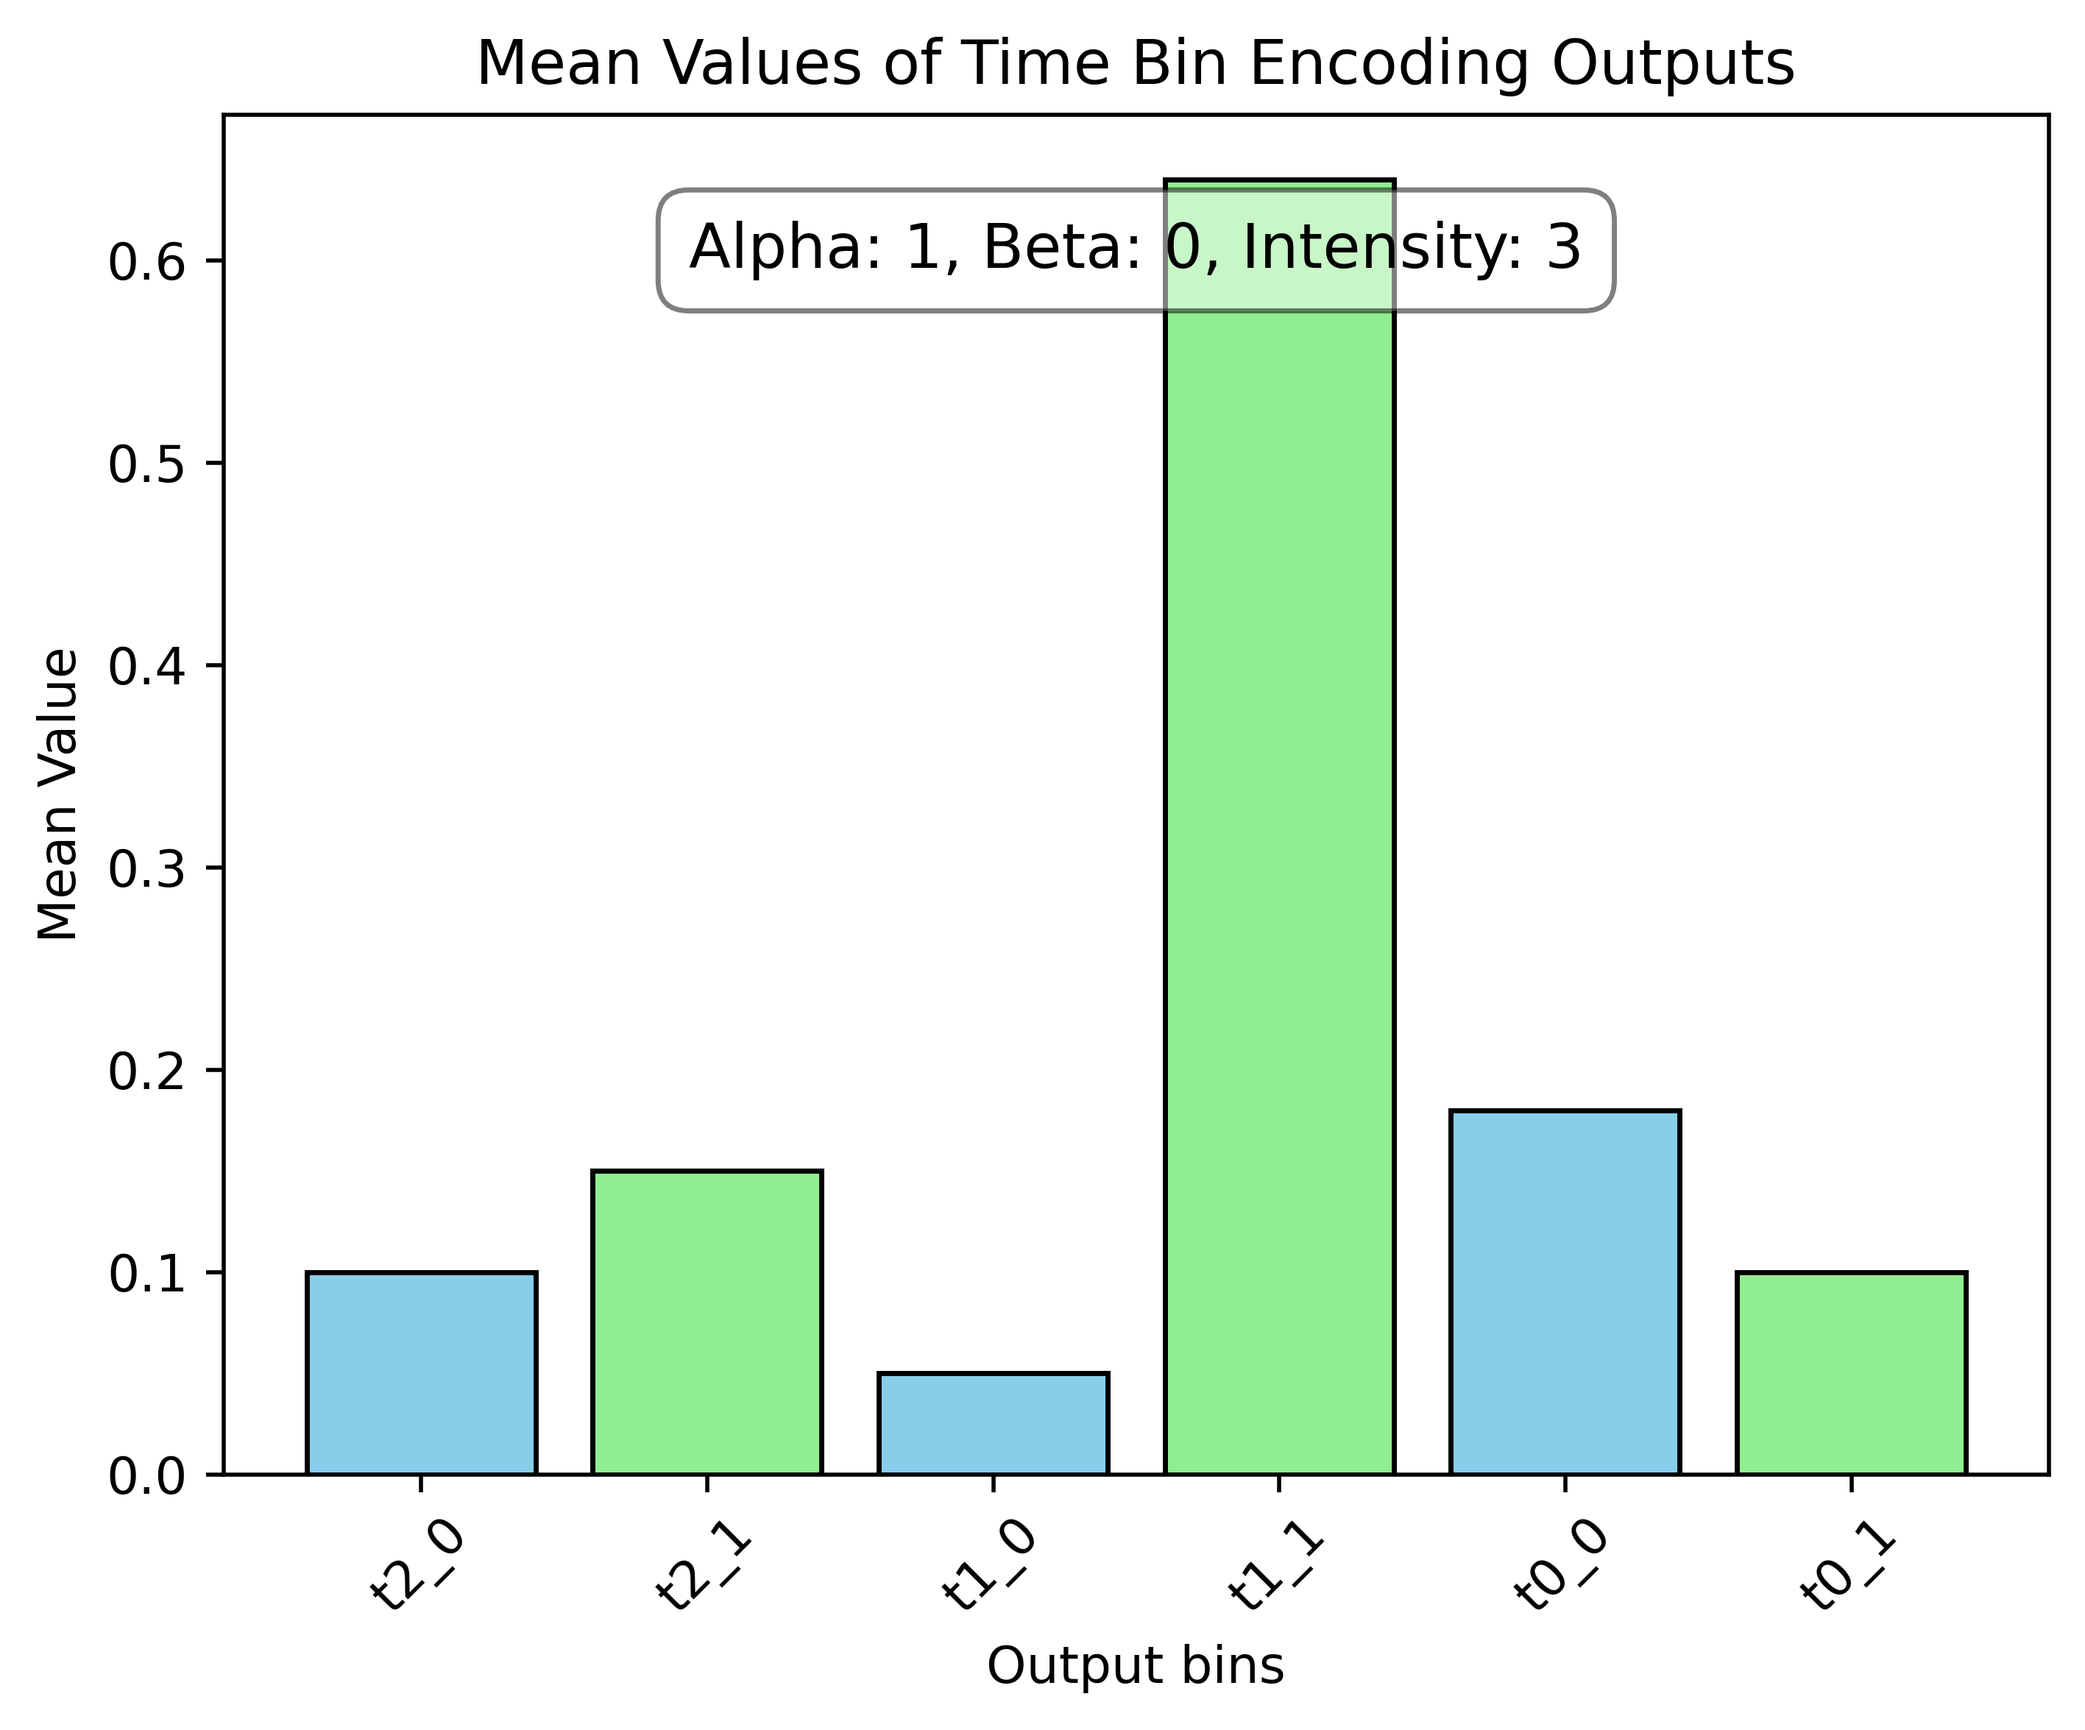
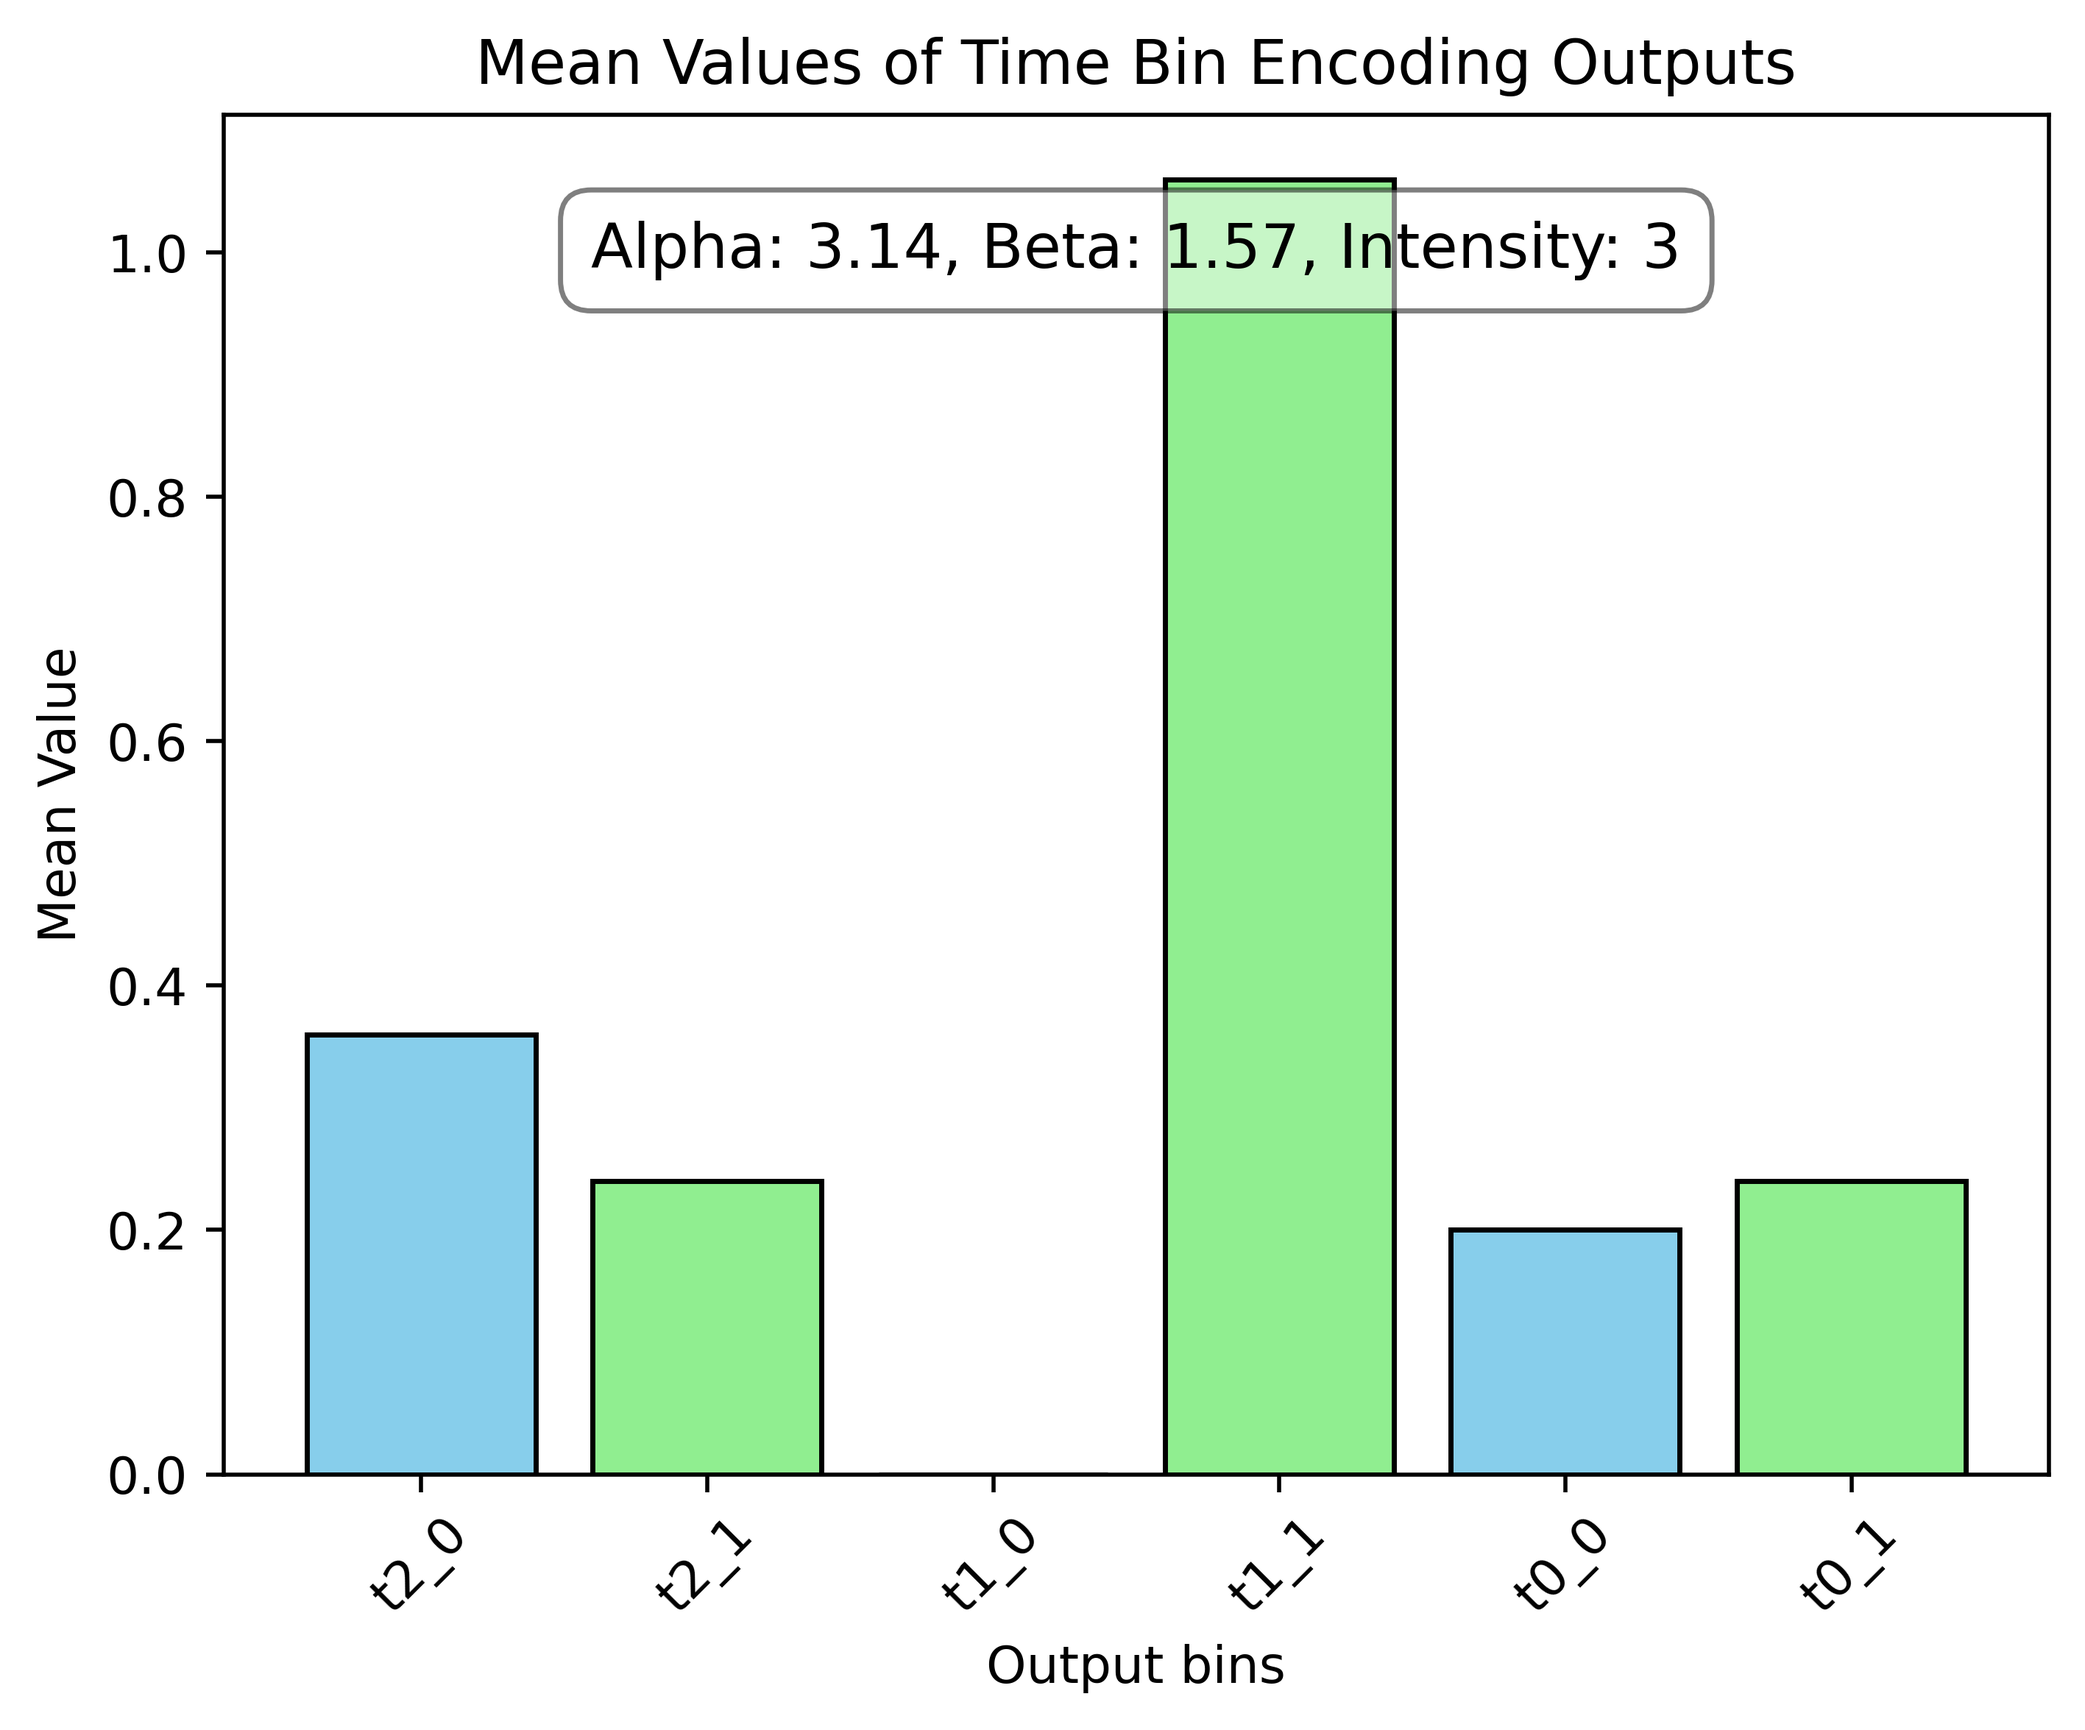
Added some more detail to the example

diff --git a/examples/time_bin_encoding.py b/examples/time_bin_encoding.py
@@ -184,10 +184,10 @@ def time_bin_encoding(intensity: int, alpha: float, beta: float) -> List[List[in
 
 if __name__ == "__main__":
 
-    alpha = 1
-    beta = 0
+    alpha = jnp.pi
+    beta = jnp.pi/2
     intensity = 3
-    rounds = 100
+    rounds = 50
 
     outputs = {
         "t0_0" : [],
@@ -223,7 +223,7 @@ if __name__ == "__main__":
 
     colors = ['skyblue', 'lightgreen']*3
 
-    annotation_text = f"Alpha: {alpha}, Beta: {beta}, Intensity: {intensity}"
+    annotation_text = f"Alpha: {alpha:.2f}, Beta: {beta:.2f}, Intensity: {intensity}"
 
     plt.bar(ordered_keys, ordered_mean_values, color=colors, edgecolor='black')
     plt.xlabel('Output bins')
